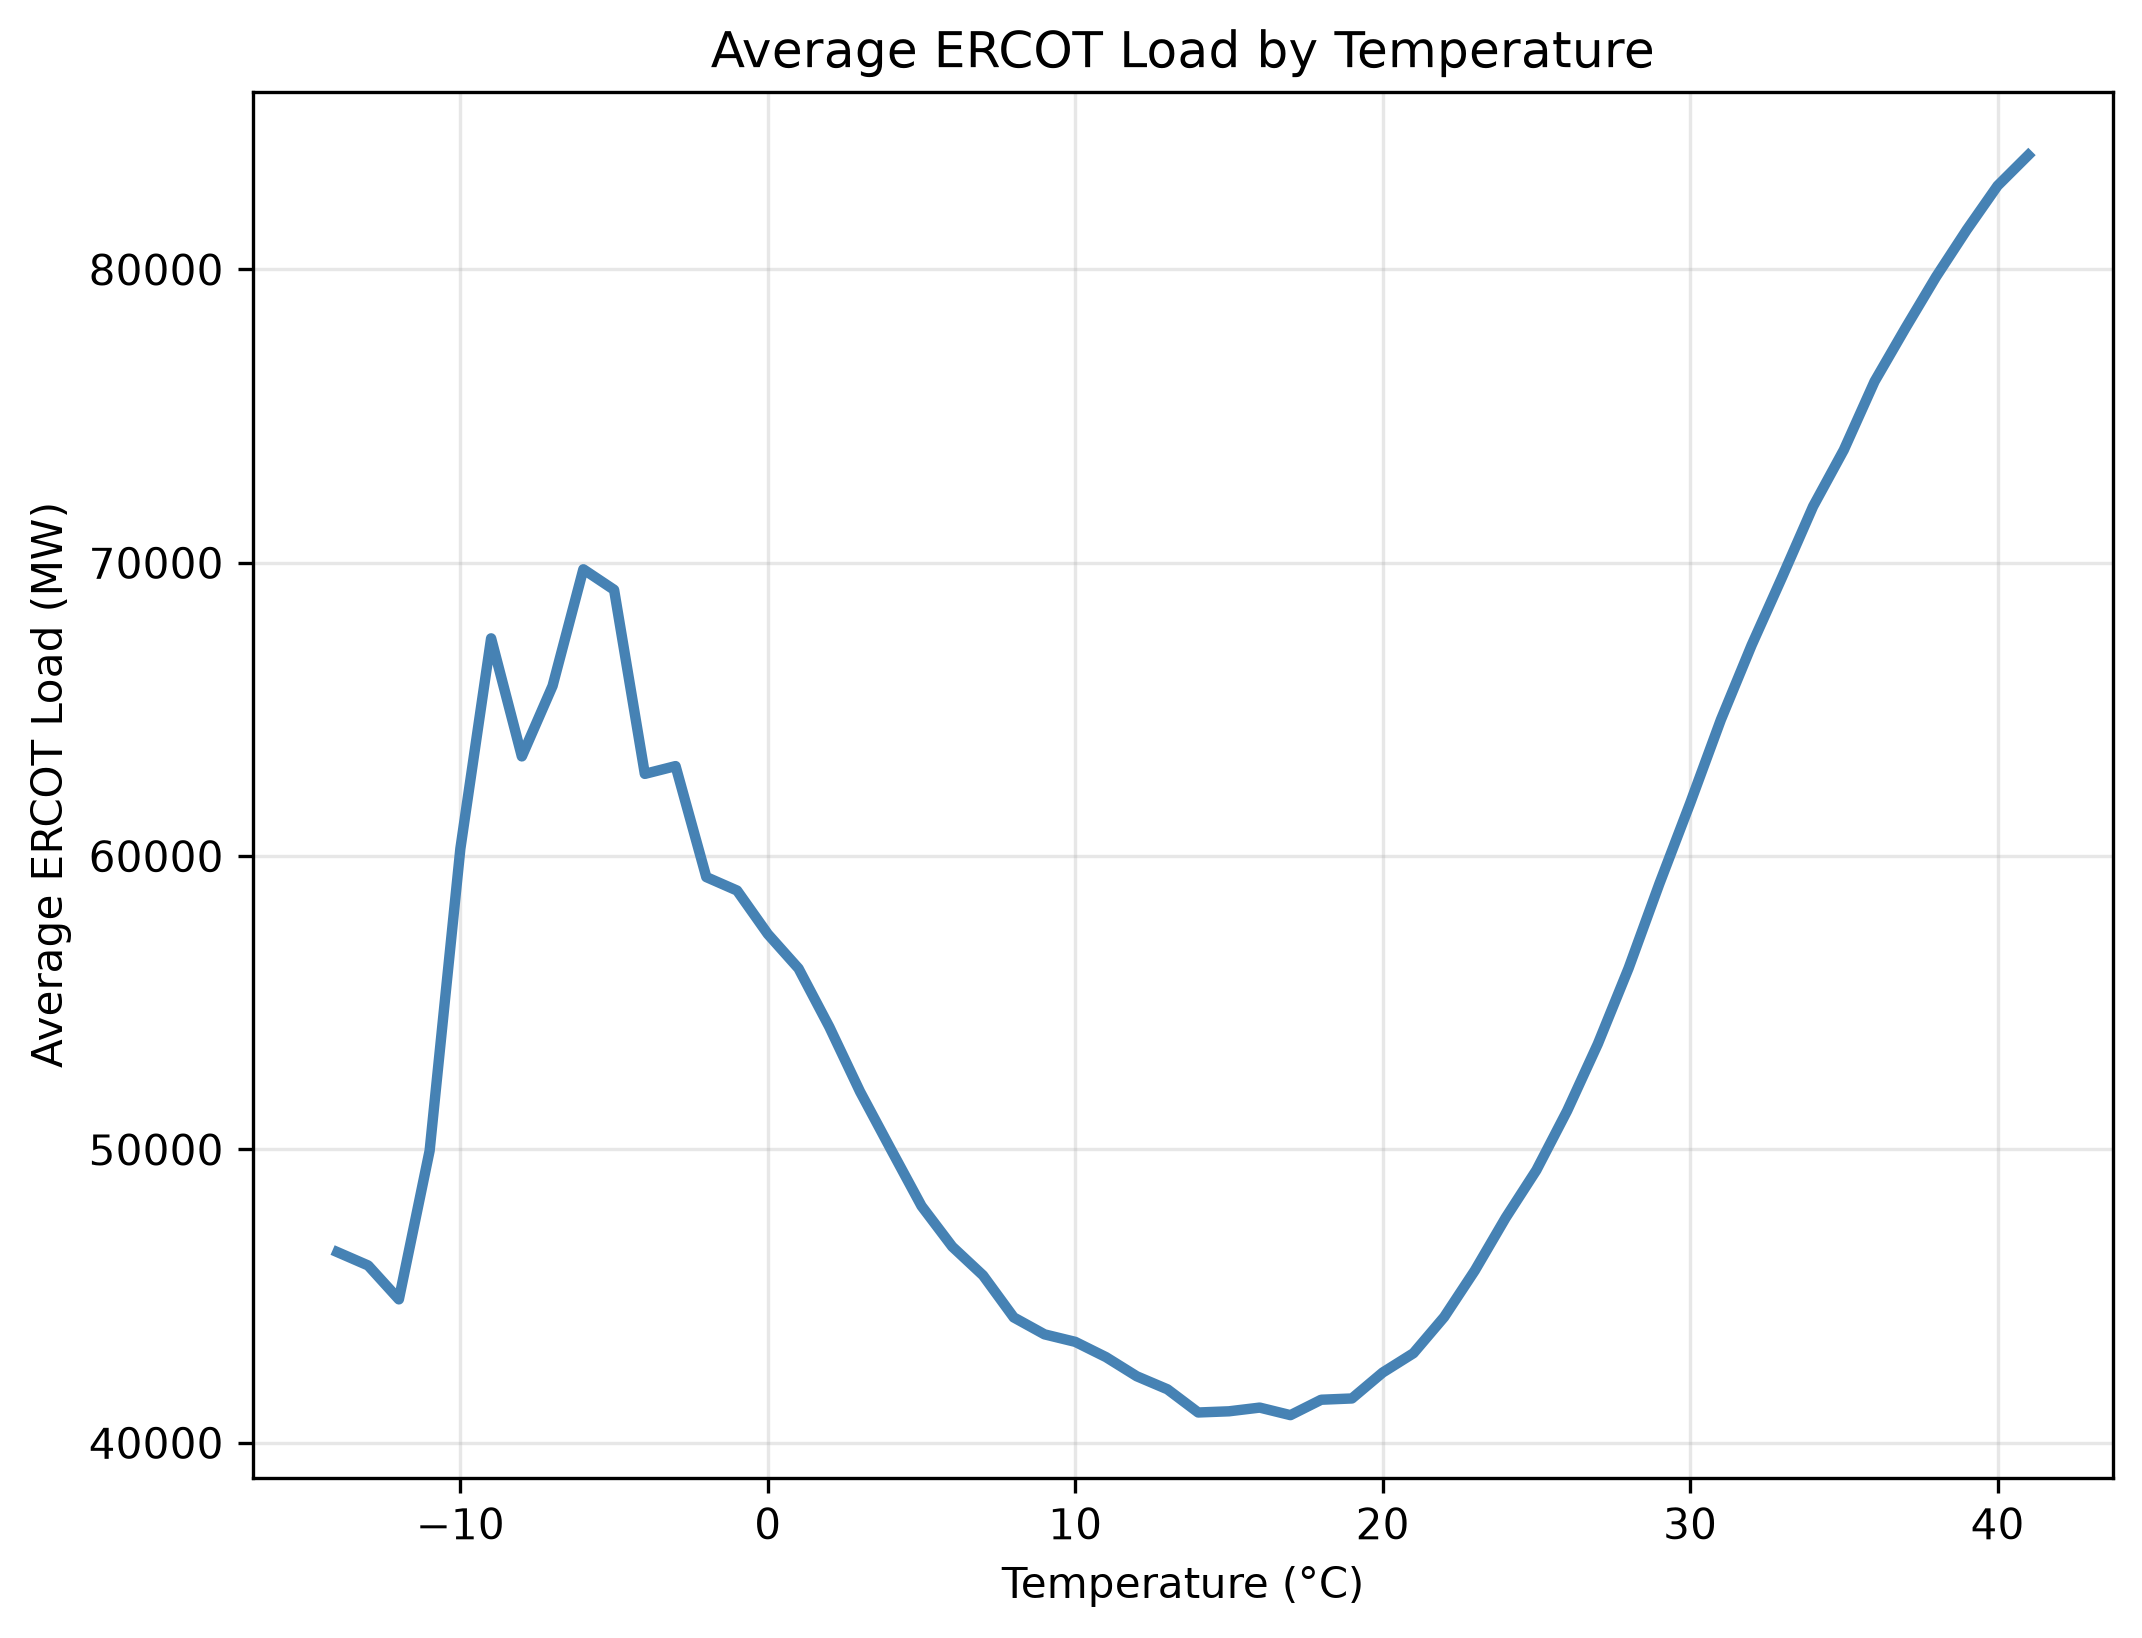
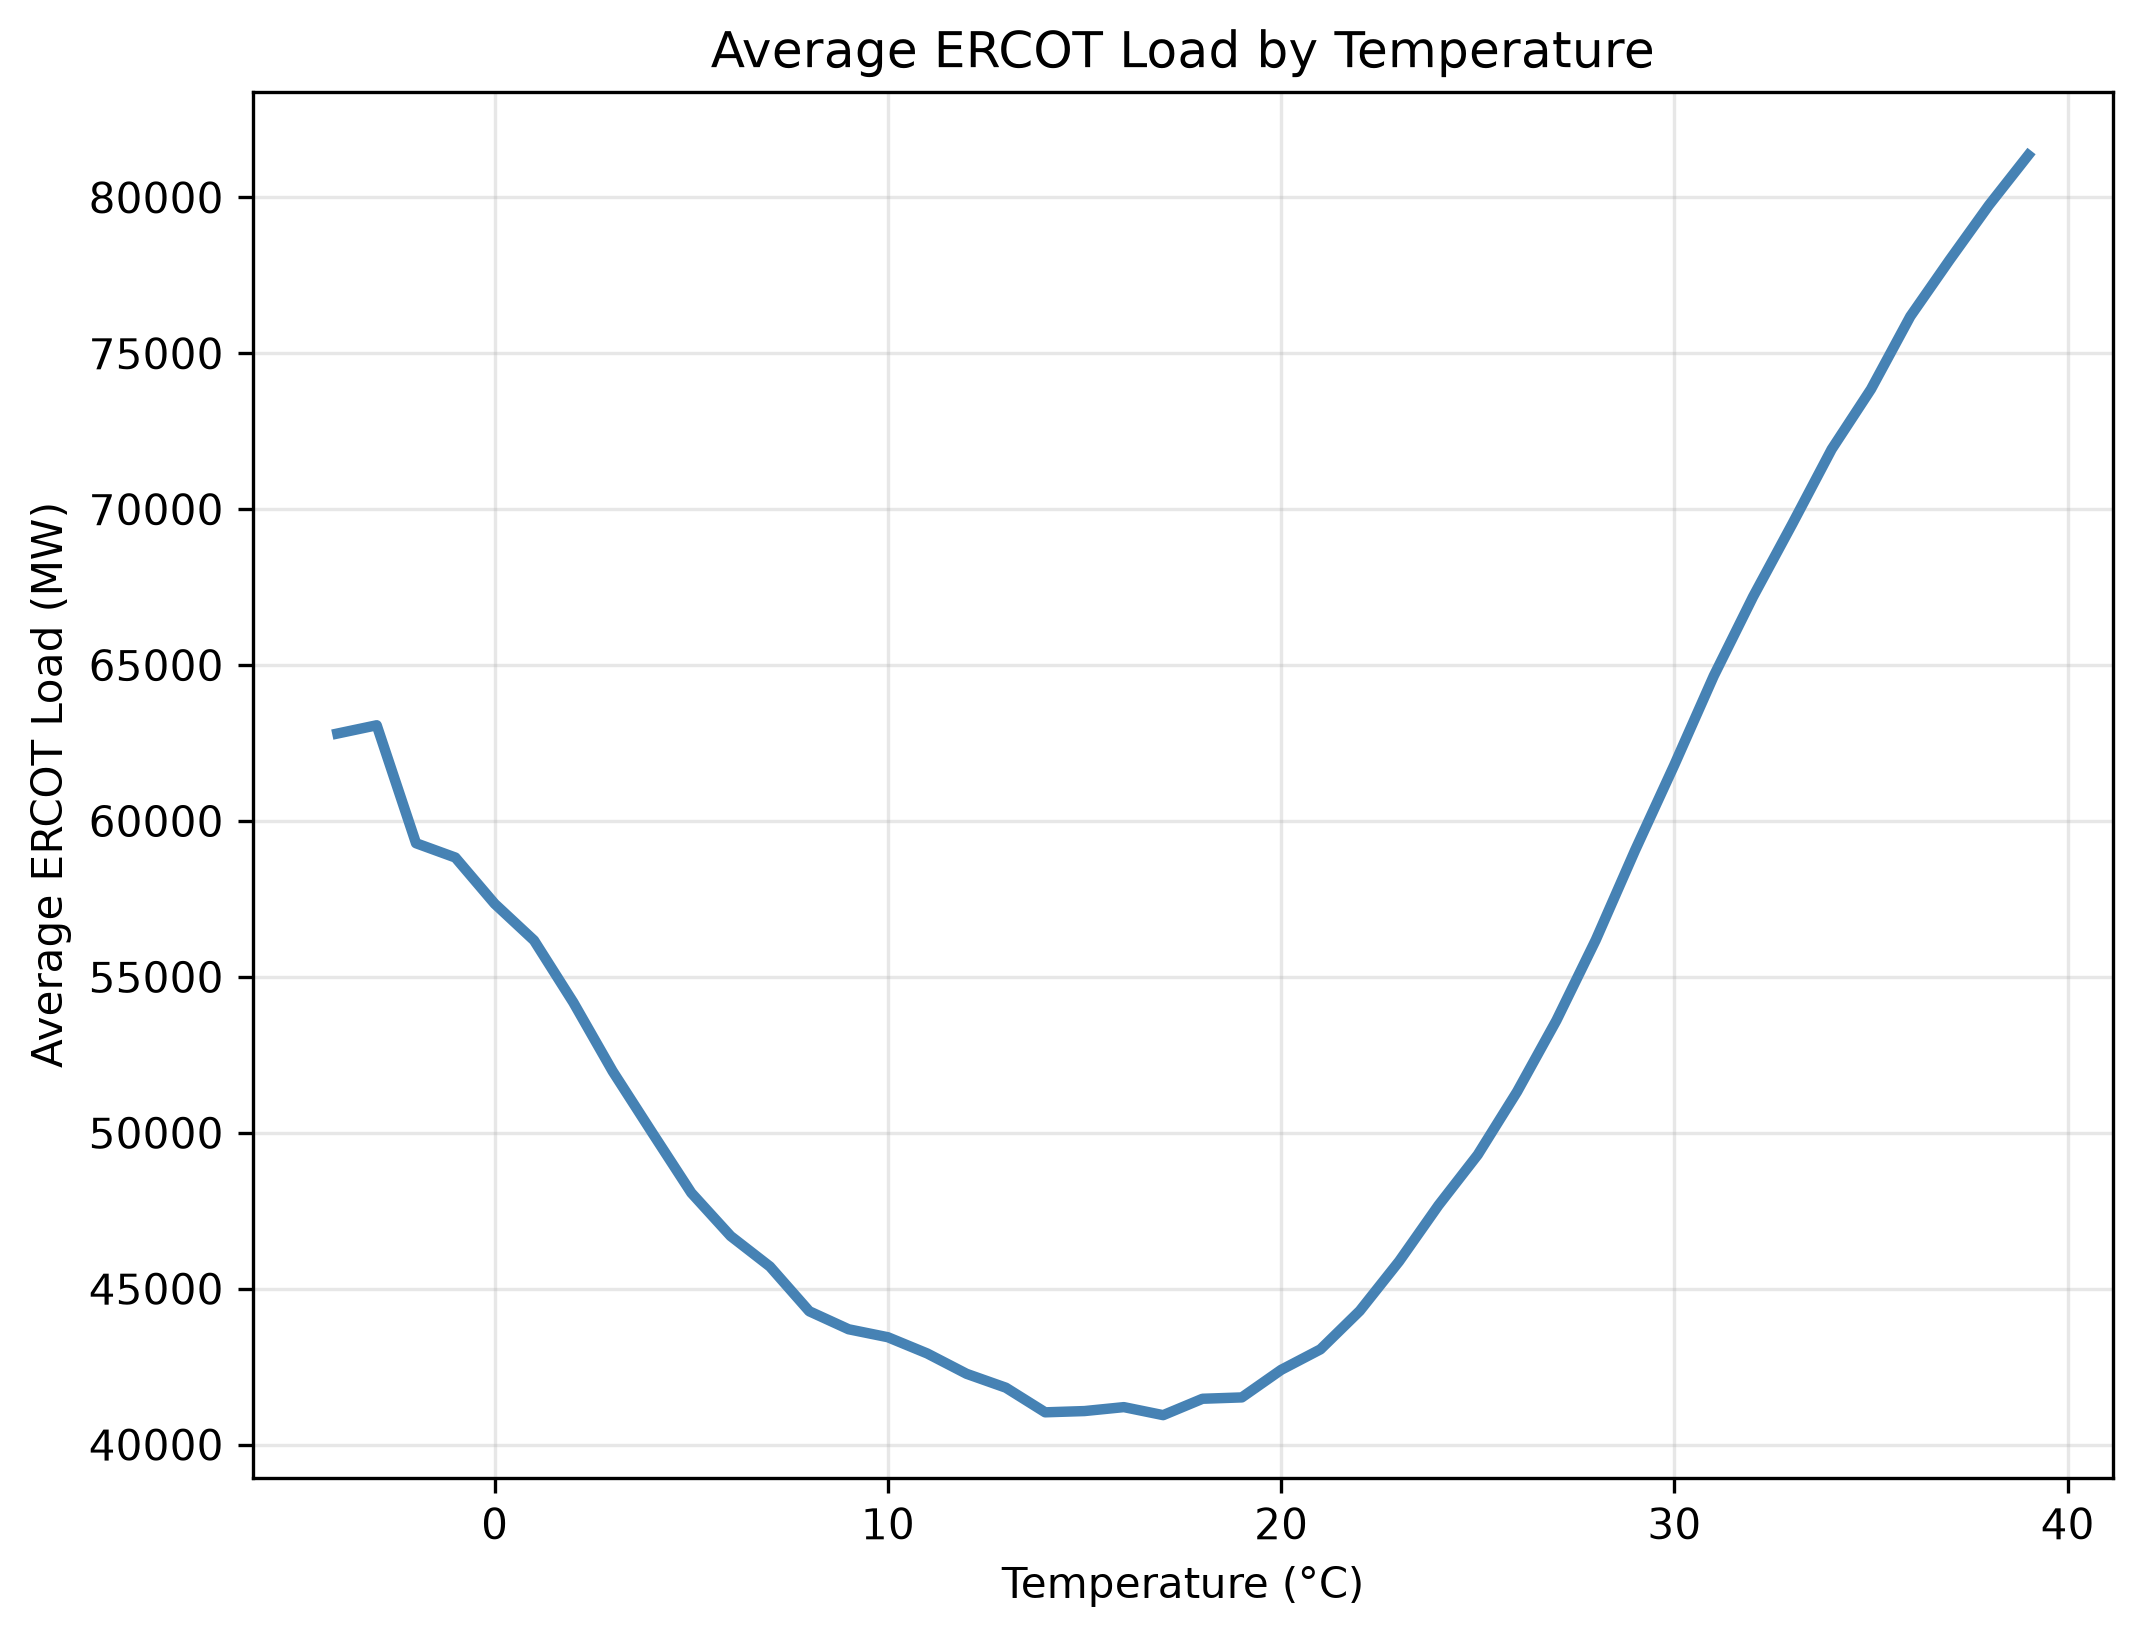
upload figure 1 and 2

diff --git a/src/analysis/load_by_temperature.py b/src/analysis/load_by_temperature.py
@@ -12,18 +12,24 @@ df["temp_bin"] = (
 )
 
 # Calculate average load by temperature bin
-avg_load = (
-    df.groupby("temp_bin")["ERCOT"]
-      .mean()
+temp_stats = (
+    df.groupby("temp_bin")
+      .agg(
+          avg_load=("ERCOT", "mean"),
+          count=("ERCOT", "size")
+      )
       .reset_index()
 )
+
+# Remove bins with fewer than 50 observations
+temp_stats = temp_stats[temp_stats["count"] >= 50]
 
 # Plot
 plt.figure(figsize=(8, 6))
 
 plt.plot(
-    avg_load["temp_bin"],
-    avg_load["ERCOT"],
+    temp_stats["temp_bin"],
+    temp_stats["avg_load"],
     linewidth=2.5,
     color="steelblue"
 )

diff --git a/README.md b/README.md
@@ -1,6 +1,4 @@
-
-
-**How do weather conditions affect electricity demand and real-time electricity prices in ERCOT?**
+**How does weather affect ERCOT electricity demand and wholesale electricity prices?**
 
 Introduction (3/4)
 
@@ -12,7 +10,6 @@ Data and Methodology (3/4)
 
 Results and Analysis (1 1/4)
 
-
 | Variable         | Mean     | Std      | Min      | Max      | N     |
 | ---------------- | -------- | -------- | -------- | -------- | ----- |
 | ERCOT Load (MW)  | 50585.51 | 11118.26 | 27800.15 | 85464.12 | 43824 |
@@ -23,17 +20,19 @@ Results and Analysis (1 1/4)
 
 
 
+![1794003137004](image/README/1794003137004.png)
+
+Figure 1 shows the relationship between temperature and ERCOT electricity demand. Electricity demand is lowest at approximately 15-18°C and increases as temperatures become either colder or hotter. This creates a clear U-shaped relationship between temperature and electricity demand.
+
+![1794004029591](image/README/1794004029591.png)
+
+Figure 2 confirms the U-shaped relationship observed in Figure 1. Average electricity demand is lowest around 15-17°C and rises as temperatures move away from this range. The increase in demand is larger during very hot weather than during very cold weather, suggesting that air-conditioning demand plays an important role in ERCOT electricity consumption.
+
 Policy Implications or Discussion (1/2)
 
 Conclusion (1/3)
 
 References (Seperate)
-
-
-
-
-
-
 
 **더운 날의 전력수요와 도매가격: ERCOT의 2021–2025년 자료 분석
 
@@ -123,7 +122,6 @@ FRED (Federal Reserve Economic Data)
 To capture the weather-driven component of the system-wide load, we construct a population-weighted temperature index based on the four major metropolitan statistical areas (MSAs)—Dallas, Houston, San Antonio, and Austin—which account for the vast majority of Texas's population and aggregated electricity consumption.
 
 Population weights are derived from the U.S. Census Bureau Annual Metropolitan Area Resident Population Estimates for Dallas-Fort Worth, Houston, San Antonio, and Austin MSAs, retrieved via FRED (Federal Reserve Economic Data). A fixed average share across the 2021–2025 sample period is applied to construct the population-weighted statewide weather indices.
-
 
 ERCOT
 
